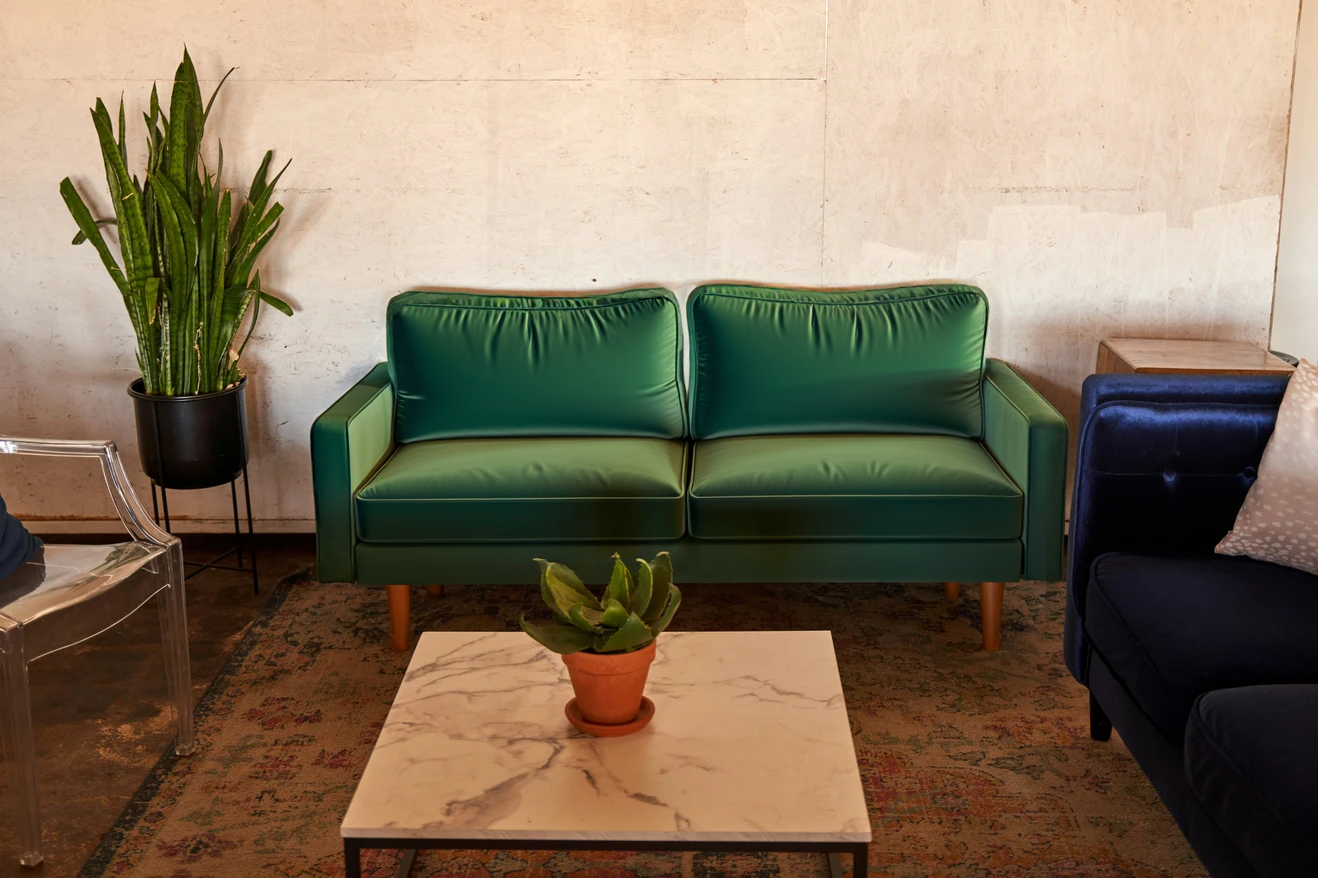
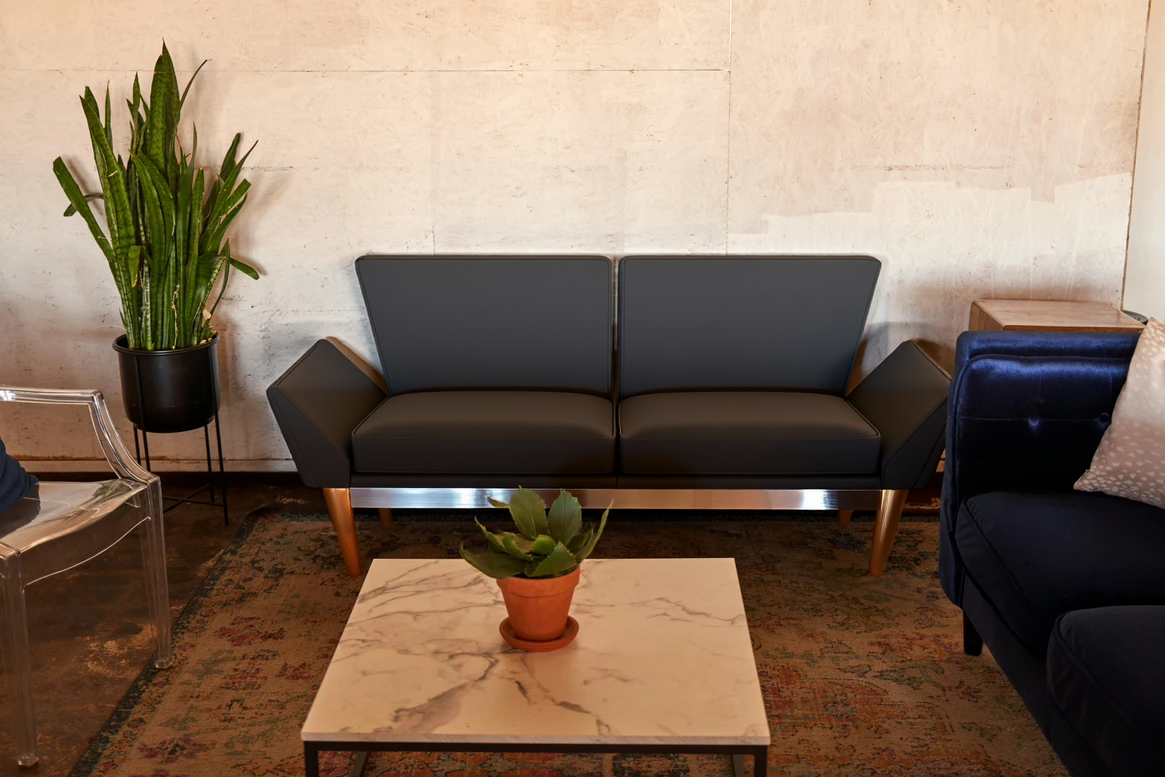
Magic Edit rename (Inpaint -> Magic Edit / Sihirli Düzenleme, card + mask screen titles, x8 locales); studio headline centered; progress screen: 'About this style' is now a one-shot teaching card with its own X (useDismissible), spinner block centers on every later run; Magic Edit card gets the auth

Changed region(s): [[0.2163, 0.3089, 0.8343, 0.7413]]

diff --git a/app/generation/progress.tsx b/app/generation/progress.tsx
@@ -7,6 +7,7 @@ import {
   ScrollView,
 } from "react-native";
 import { SafeAreaView } from "react-native-safe-area-context";
+import { useDismissible } from "@/hooks/useDismissible";
 import { router, useLocalSearchParams } from "expo-router";
 import { useState, useEffect, useRef, useMemo } from "react";
 import { Ionicons } from "@expo/vector-icons";
@@ -204,6 +205,12 @@ export default function GenerationProgressScreen() {
     });
   };
 
+  // "About this style" is a first-generation teaching card (2026-07 tester
+  // ask): show once, dismissible via its X, never again after — the spinner
+  // block then centers in the freed space on every later run.
+  const [styleHintVisible, dismissStyleHint] = useDismissible("generation_style_hint_seen");
+  const showStyleHint = !errorMessage && !!styleName && styleHintVisible;
+
   const phaseLabel = t(`generation.phase_${phase === "error" ? "ready" : phase}`);
   const title = errorMessage ? t("generation.failed") : t("generation.creating");
 
@@ -227,7 +234,12 @@ export default function GenerationProgressScreen() {
 
       <ScrollView
         className="flex-1"
-        contentContainerStyle={{ paddingHorizontal: 24, paddingBottom: 40 }}
+        contentContainerStyle={{
+          paddingHorizontal: 24,
+          paddingBottom: 40,
+          flexGrow: 1,
+          justifyContent: showStyleHint ? "flex-start" : "center",
+        }}
         showsVerticalScrollIndicator={false}
       >
         {/* Hero spinner */}
@@ -379,13 +391,34 @@ export default function GenerationProgressScreen() {
           </Pressable>
         )}
 
-        {/* Style info card */}
-        {!errorMessage && styleName && (
-          <StyleInfoCard
-            title={t("generation.about_this_style")}
-            styleName={styleName}
-            description={styleDescription}
-          />
+        {/* Style info card — one-shot with its own X */}
+        {showStyleHint && (
+          <View>
+            <StyleInfoCard
+              title={t("generation.about_this_style")}
+              styleName={styleName}
+              description={styleDescription}
+            />
+            <Pressable
+              onPress={dismissStyleHint}
+              hitSlop={10}
+              accessibilityRole="button"
+              accessibilityLabel={t("common.close")}
+              style={{
+                position: "absolute",
+                top: 10,
+                right: 10,
+                width: 28,
+                height: 28,
+                borderRadius: 14,
+                alignItems: "center",
+                justifyContent: "center",
+                backgroundColor: "rgba(19,19,19,0.55)",
+              }}
+            >
+              <Ionicons name="close" size={15} color="#D0C5B8" />
+            </Pressable>
+          </View>
         )}
       </ScrollView>
     </SafeAreaView>

diff --git a/app/(tabs)/studio/index.tsx b/app/(tabs)/studio/index.tsx
@@ -153,8 +153,8 @@ export default function StudioScreen() {
         contentContainerStyle={{ paddingHorizontal: 24, paddingBottom: 128 }}
         showsVerticalScrollIndicator={false}
       >
-        {/* Eyebrow + headline — what shall we transform today? */}
-        <View style={{ marginTop: 12, marginBottom: 10 }}>
+        {/* Eyebrow + headline — centered welcome */}
+        <View style={{ marginTop: 12, marginBottom: 10, alignItems: "center" }}>
           <Text
             style={{
               fontFamily: "Inter-SemiBold",
@@ -175,6 +175,7 @@ export default function StudioScreen() {
             letterSpacing: -0.4,
             color: theme.color.onSurface,
             marginBottom: 28,
+            textAlign: "center",
           }}
         >
           {t("studio.home_title")}

diff --git a/components/studio/featureCatalog.ts b/components/studio/featureCatalog.ts
@@ -71,9 +71,9 @@ export const STUDIO_FEATURES: StudioFeature[] = [
         descKey: "studio.feature_inpaint_desc",
         minPlan: "PRO",
         media: {
-            // Authentic app output: the grey fabric sofa repainted as an
-            // emerald velvet piece — everything else (cat included) untouched,
-            // which IS the Smart Edit promise.
+            // Authentic PROD output (2026-07-10, post object-labeling fix):
+            // the grey fabric sofa fully replaced by a new-form charcoal
+            // leather design — everything around it untouched.
             kind: "pair",
             before: require("@/assets/features/inpaint_before.png"),
             after: require("@/assets/features/inpaint_after.png"),
